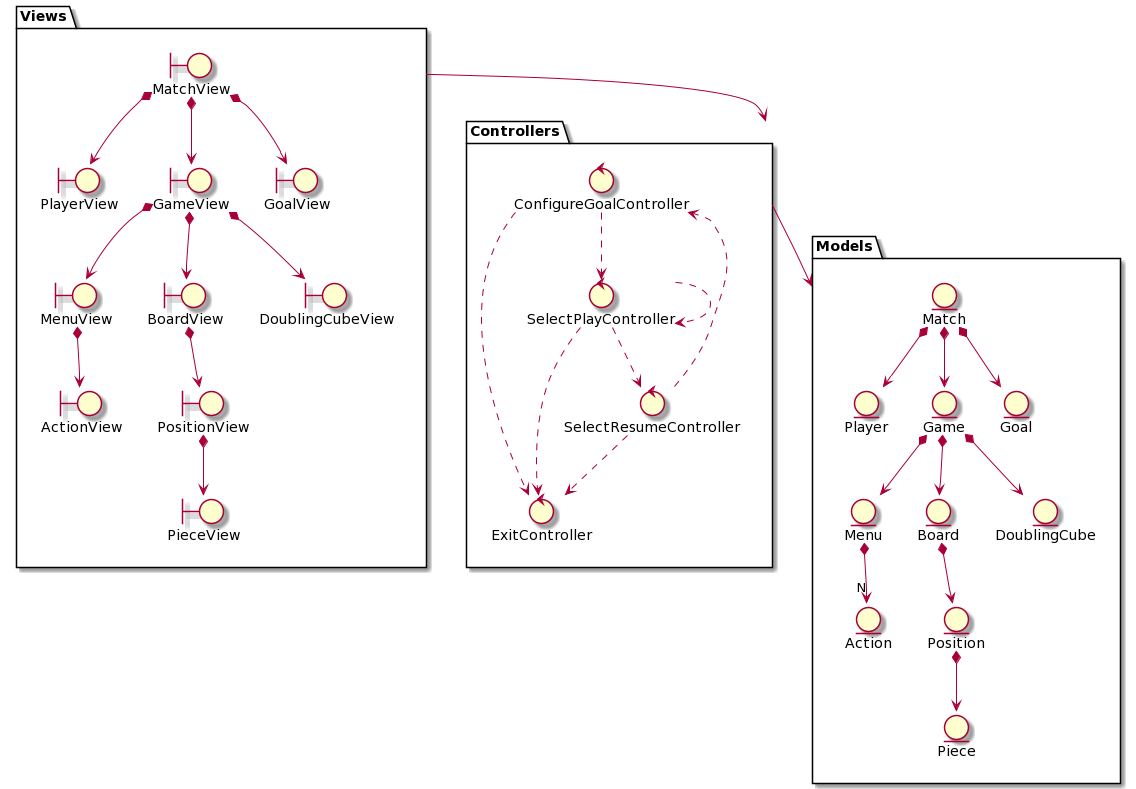
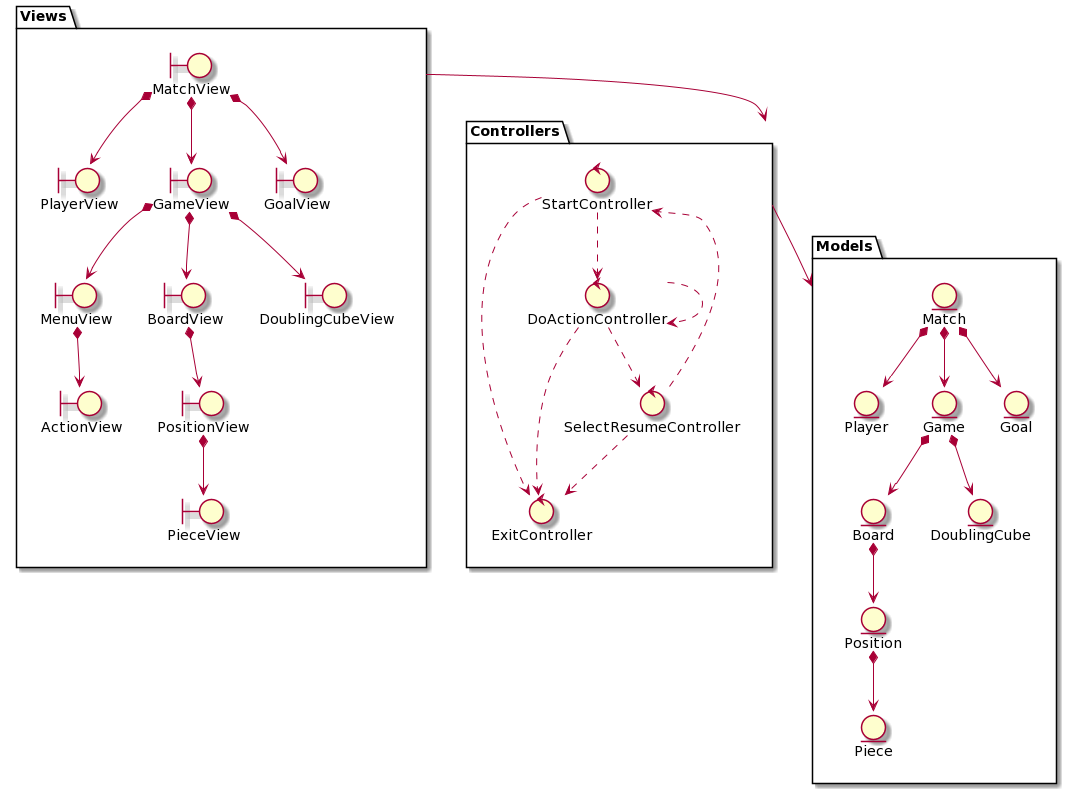
Improve naming: select_play by do_action and configure_goal by start

diff --git a/rup/README.md b/rup/README.md
@@ -11,31 +11,18 @@
 
 ![Context](/rup/context/context.png)
 
-### Configure Goal
-![Configure Goal](/rup/usecase/configure_goal.png)
+### Start
+![Start](/rup/usecase/start.png)
 
-### Resume 
+### DoAction
+![DoAction](/rup/usecase/do_action.png)
+
+### Resume
 ![Resume](/rup/usecase/resume.png)
-
-### Select Play 
-![Select Play](/rup/usecase/select_play.png)
 
 ### GUI
 
 ![GUI](/rup/context/gui.png)
-
-```
-[1] BOARD
-|--------------------------------------------------------|
-|  13  14  15  16  17  18 |    |  19  20  21  22  23  24 |
-|  5●              3○     |    |  5○                  2● |
-|                         |  0○|                         |
-|                         | BAR|                         |
-|                         |  0●|                         |
-|  5○              3●     |    |  5●                  2○ |
-|  12  11  10   9   8   7 |    |   6   5   4   3   2   1 |
-|--------------------------------------------------------|
-```
 
 ## Analysis
 
